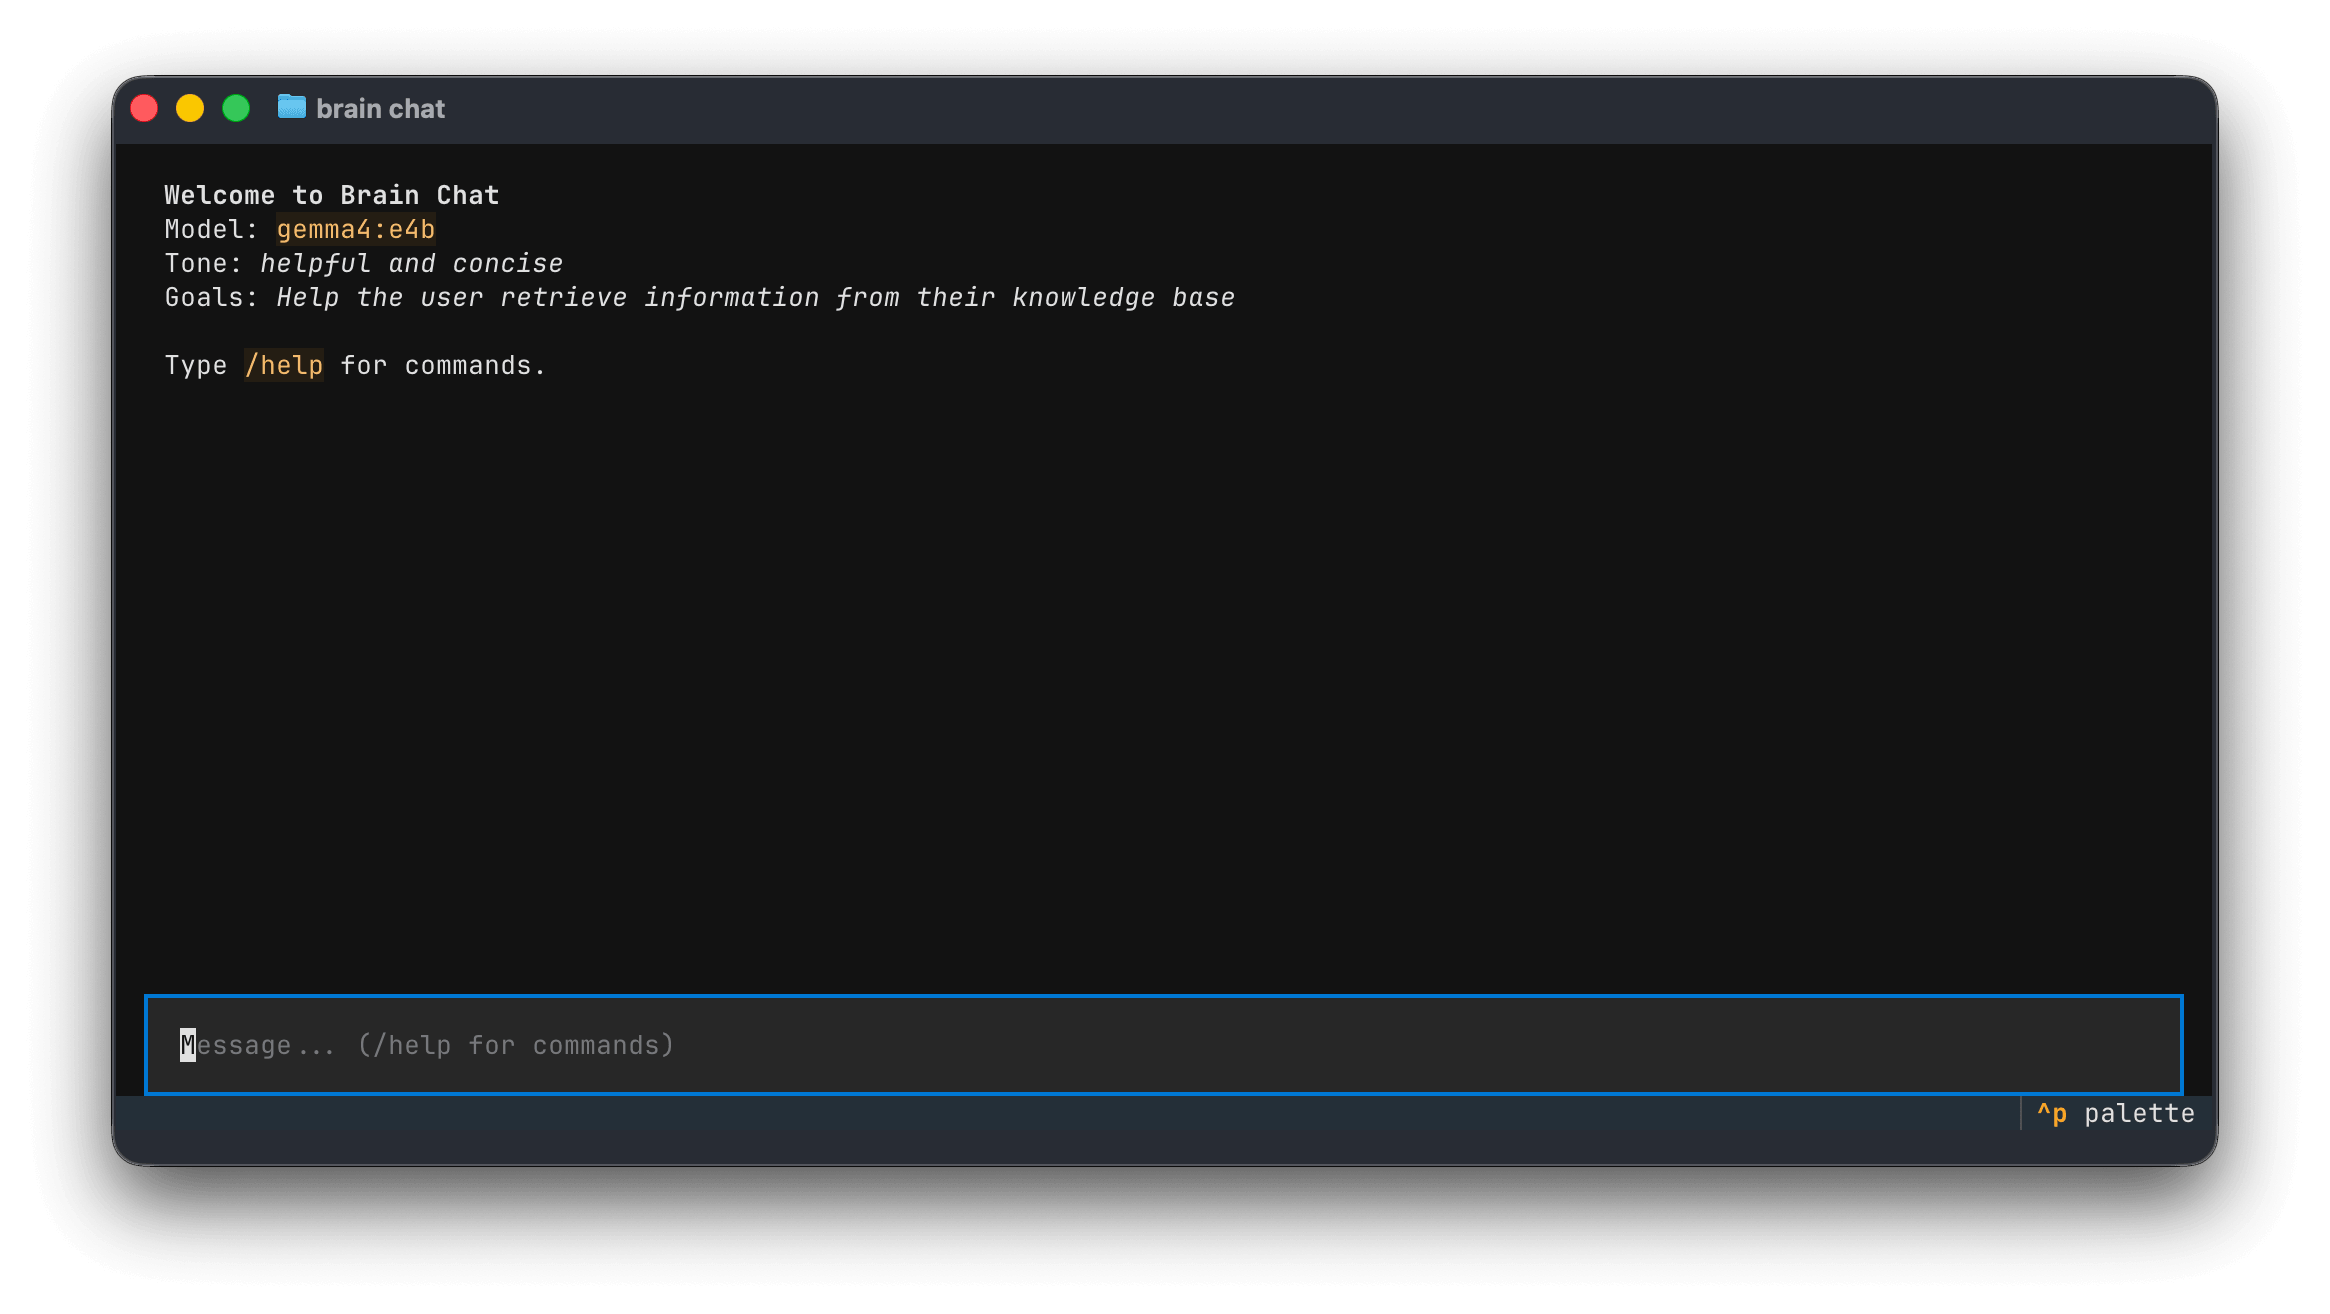
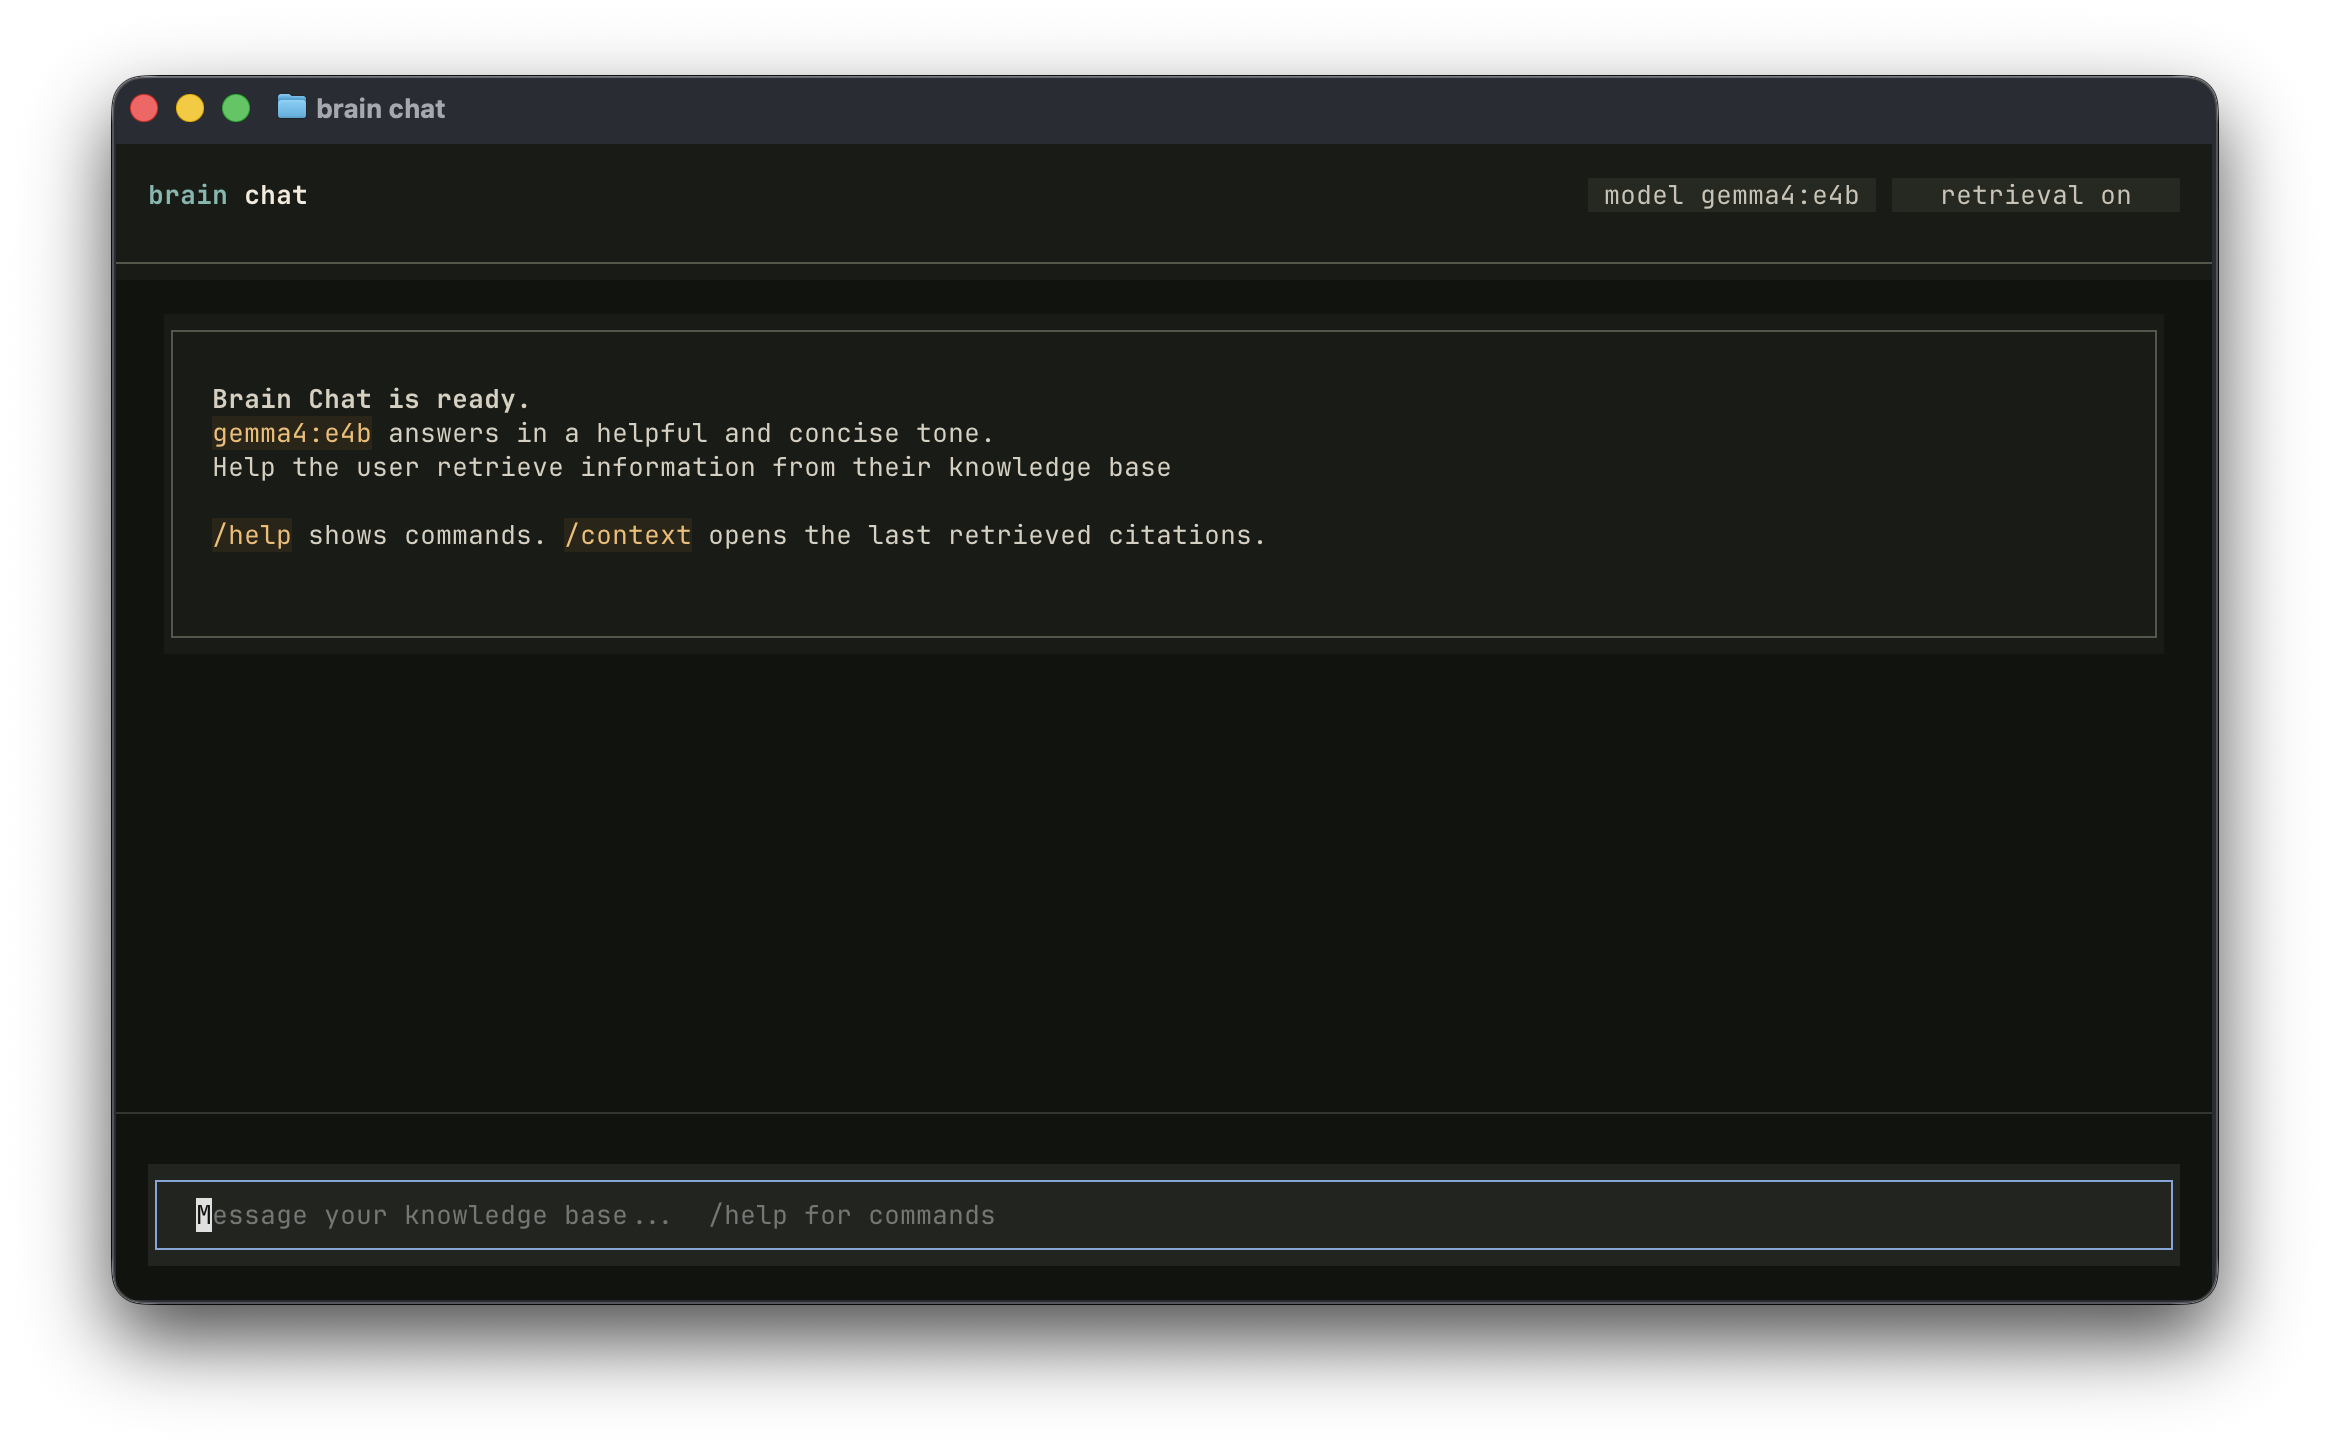
feat: better TUI on chat

Changed region(s): [[0.0309, 0.0312, 0.9579, 0.3744], [0.0309, 0.7489, 0.9579, 0.9049]]

diff --git a/brain/commands/chat.py b/brain/commands/chat.py
@@ -1,8 +1,8 @@
 from textual import work
 from textual.app import App, ComposeResult
 from textual.binding import Binding
-from textual.containers import VerticalScroll
-from textual.widgets import Footer, Input, LoadingIndicator, Markdown, Static
+from textual.containers import Horizontal, VerticalScroll
+from textual.widgets import Input, LoadingIndicator, Markdown, Static
 
 from brain.config import BrainConfig
 from brain.ollama import OllamaClient
@@ -42,52 +42,138 @@ class ChatApp(App):
 
     CSS = """
     ChatApp {
-        background: $surface-darken-1;
+        background: #11130f;
+        color: #d7d0c0;
+    }
+
+    #masthead {
+        dock: top;
+        height: 4;
+        padding: 1 2 0 2;
+        background: #181b16;
+        border-bottom: solid #4f584a;
+    }
+
+    #brand {
+        width: 1fr;
+        content-align: left middle;
+        text-style: bold;
+        color: #f2eadb;
+    }
+
+    .status-pill {
+        width: auto;
+        min-width: 18;
+        height: 1;
+        margin: 0 0 0 1;
+        padding: 0 1;
+        background: #242920;
+        color: #c9c3b5;
+        text-align: center;
+        content-align: center middle;
     }
 
     #chat-view {
         width: 100%;
         height: 1fr;
-        padding: 0 1;
+        padding: 1 3 2 3;
+        background: #11130f;
+        scrollbar-color: #7ab8b0;
+        scrollbar-color-hover: #97d5cb;
+    }
+
+    #chat-input-deck {
+        dock: bottom;
+        width: 100%;
+        height: 6;
+        padding: 1 2 1 2;
+        background: #11130f;
+        border-top: solid #30362d;
     }
 
     #chat-input {
-        dock: bottom;
-        height: auto;
-        margin: 0 1 1 1;
+        width: 1fr;
+        height: 3;
+        margin: 0;
+        border: solid #4f584a;
+        background: #181b16;
+        color: #f2eadb;
+    }
+
+    #chat-input:focus {
+        border: solid #7ea6d8;
     }
 
     .user-message {
-        width: auto;
-        max-width: 70%;
+        width: 100%;
         height: auto;
-        margin: 1 0 1 8;
+        margin: 2 0 1 0;
         padding: 0 1;
-        background: $success-darken-3;
-        border: tall $success;
-        color: $text;
-        content-align: right middle;
-        align: right middle;
+        color: #b0ca89;
+        text-align: right;
     }
 
     .assistant-message {
         width: 100%;
         height: auto;
-        margin: 1 0;
+        margin: 1 0 2 0;
+        padding: 0 1 0 0;
+        color: #d7d0c0;
+    }
+
+    .assistant-message MarkdownH1,
+    .assistant-message MarkdownH2,
+    .assistant-message MarkdownH3 {
+        color: #f2eadb;
+        text-style: bold;
+    }
+
+    .assistant-message MarkdownBullet {
+        color: #7ab8b0;
+    }
+
+    .assistant-message MarkdownCode {
+        color: #edc978;
+    }
+
+    .welcome-message {
+        width: 100%;
+        height: auto;
+        margin: 0 0 2 0;
+        padding: 1 2;
+        border: solid #4f584a;
+        background: #181b16;
+        color: #d7d0c0;
     }
 
     .thinking-indicator {
-        width: 6;
-        height: 1;
-        margin: 1 0;
+        width: 12;
+        height: 3;
+        margin: 1 0 2 0;
+        padding: 0 1;
+        border: solid #7ea6d8;
+        background: #181b16;
     }
 
     .system-message {
-        width: 100%;
+        width: auto;
         height: auto;
-        margin: 1 0;
-        color: $warning;
+        margin: 1 0 1 2;
+        padding: 0 1;
+        border-left: heavy #d4ad58;
+        background: #242920;
+        color: #edc978;
         text-align: center;
+    }
+
+    .success-message {
+        border-left: heavy #8fad70;
+        color: #b0ca89;
+    }
+
+    .error-message {
+        border-left: heavy #d97c66;
+        color: #f09a82;
     }
     """
 
@@ -118,25 +204,36 @@ class ChatApp(App):
         self.last_context = ""
 
     def compose(self) -> ComposeResult:
+        with Horizontal(id="masthead"):
+            yield Static("[#7ab8b0]brain[/#7ab8b0] chat", id="brand")
+            yield Static("model pending", id="model-pill", classes="status-pill")
+            yield Static("retrieval on", id="rag-pill", classes="status-pill")
         yield VerticalScroll(id="chat-view")
-        yield Input(placeholder="Message... (/help for commands)", id="chat-input")
-        yield Footer()
+        with Horizontal(id="chat-input-deck"):
+            yield Input(
+                placeholder="Message your knowledge base...  /help for commands", id="chat-input"
+            )
 
     async def on_mount(self) -> None:
         self.title = "Brain Chat"
-        self.sub_title = f"{self.cfg.chat_model} • {self.cfg.agent.tone}"
+        self.sub_title = f"{self.cfg.chat_model} | {self.cfg.agent.tone}"
+        self.query_one("#model-pill", Static).update(f"model {self.cfg.chat_model}")
+        self._sync_rag_status()
         await self._show_welcome()
         self.query_one("#chat-input", Input).focus()
 
+    def _sync_rag_status(self) -> None:
+        state = "on" if self.rag_enabled else "off"
+        self.query_one("#rag-pill", Static).update(f"retrieval {state}")
+
     async def _show_welcome(self) -> None:
         welcome_text = (
-            f"**Welcome to Brain Chat**  \n"
-            f"Model: `{self.cfg.chat_model}`  \n"
-            f"Tone: *{self.cfg.agent.tone}*  \n"
-            f"Goals: *{self.cfg.agent.goals}*  \n\n"
-            f"Type `/help` for commands."
+            f"**Brain Chat is ready.**  \n"
+            f"`{self.cfg.chat_model}` answers in a {self.cfg.agent.tone} tone.  \n"
+            f"{self.cfg.agent.goals}  \n\n"
+            f"`/help` shows commands. `/context` opens the last retrieved citations."
         )
-        await self._add_assistant_message(welcome_text)
+        await self._add_assistant_message(welcome_text, classes="assistant-message welcome-message")
 
     async def on_input_submitted(self, event: Input.Submitted) -> None:
         message = event.value.strip()
@@ -155,7 +252,7 @@ class ChatApp(App):
 
     async def _add_user_message(self, text: str) -> None:
         chat_view = self.query_one("#chat-view", VerticalScroll)
-        static = Static(text, classes="user-message")
+        static = Static(f"you > {text}", classes="user-message", markup=False)
         await chat_view.mount(static)
         static.scroll_visible()
 
@@ -166,16 +263,18 @@ class ChatApp(App):
         indicator.scroll_visible()
         return indicator
 
-    async def _add_assistant_message(self, text: str) -> Markdown:
+    async def _add_assistant_message(
+        self, text: str, classes: str = "assistant-message"
+    ) -> Markdown:
         chat_view = self.query_one("#chat-view", VerticalScroll)
-        md = Markdown(text, classes="assistant-message")
+        md = Markdown(text, classes=classes)
         await chat_view.mount(md)
         md.scroll_visible()
         return md
 
-    async def _add_system_message(self, text: str) -> None:
+    async def _add_system_message(self, text: str, classes: str = "system-message") -> None:
         chat_view = self.query_one("#chat-view", VerticalScroll)
-        static = Static(text, classes="system-message")
+        static = Static(text, classes=classes, markup=False)
         await chat_view.mount(static)
         static.scroll_visible()
 
@@ -192,7 +291,9 @@ class ChatApp(App):
                 context = self.engine.build_context(results) if results else ""
                 self.last_context = context
             except Exception as e:
-                await self._add_system_message(f"RAG error: {e}")
+                await self._add_system_message(
+                    f"RAG error: {e}", classes="system-message error-message"
+                )
 
         prompt = _build_chat_prompt(message, context, self.history)
         self._stream_response(prompt, indicator, message)
@@ -253,27 +354,33 @@ class ChatApp(App):
             await self._show_welcome()
         elif cmd == "rag on":
             self.rag_enabled = True
-            await self._add_system_message("📚 RAG enabled")
+            self._sync_rag_status()
+            await self._add_system_message(
+                "Retrieval enabled", classes="system-message success-message"
+            )
         elif cmd == "rag off":
             self.rag_enabled = False
-            await self._add_system_message("📚 RAG disabled")
+            self._sync_rag_status()
+            await self._add_system_message("Retrieval disabled")
         elif cmd == "context":
             await self._add_assistant_message(
                 self.last_context or "_No context retrieved for the last answer._"
             )
         elif cmd == "help":
             help_text = (
-                "**Commands:**  \n"
-                "`/quit` — Exit chat  \n"
-                "`/clear` — Clear history  \n"
-                "`/rag on` — Enable document retrieval  \n"
-                "`/rag off` — Disable document retrieval  \n"
-                "`/context` — Show last retrieved citations  \n"
-                "`/help` — Show this help"
+                "**Commands**  \n"
+                "`/quit` - Exit chat  \n"
+                "`/clear` - Clear the screen  \n"
+                "`/rag on` - Enable document retrieval  \n"
+                "`/rag off` - Disable document retrieval  \n"
+                "`/context` - Show last retrieved citations  \n"
+                "`/help` - Show this help"
             )
             await self._add_assistant_message(help_text)
         else:
-            await self._add_system_message(f"❓ Unknown command: `{message}`")
+            await self._add_system_message(
+                f"Unknown command: {message}", classes="system-message error-message"
+            )
 
 
 def run_chat() -> None:
